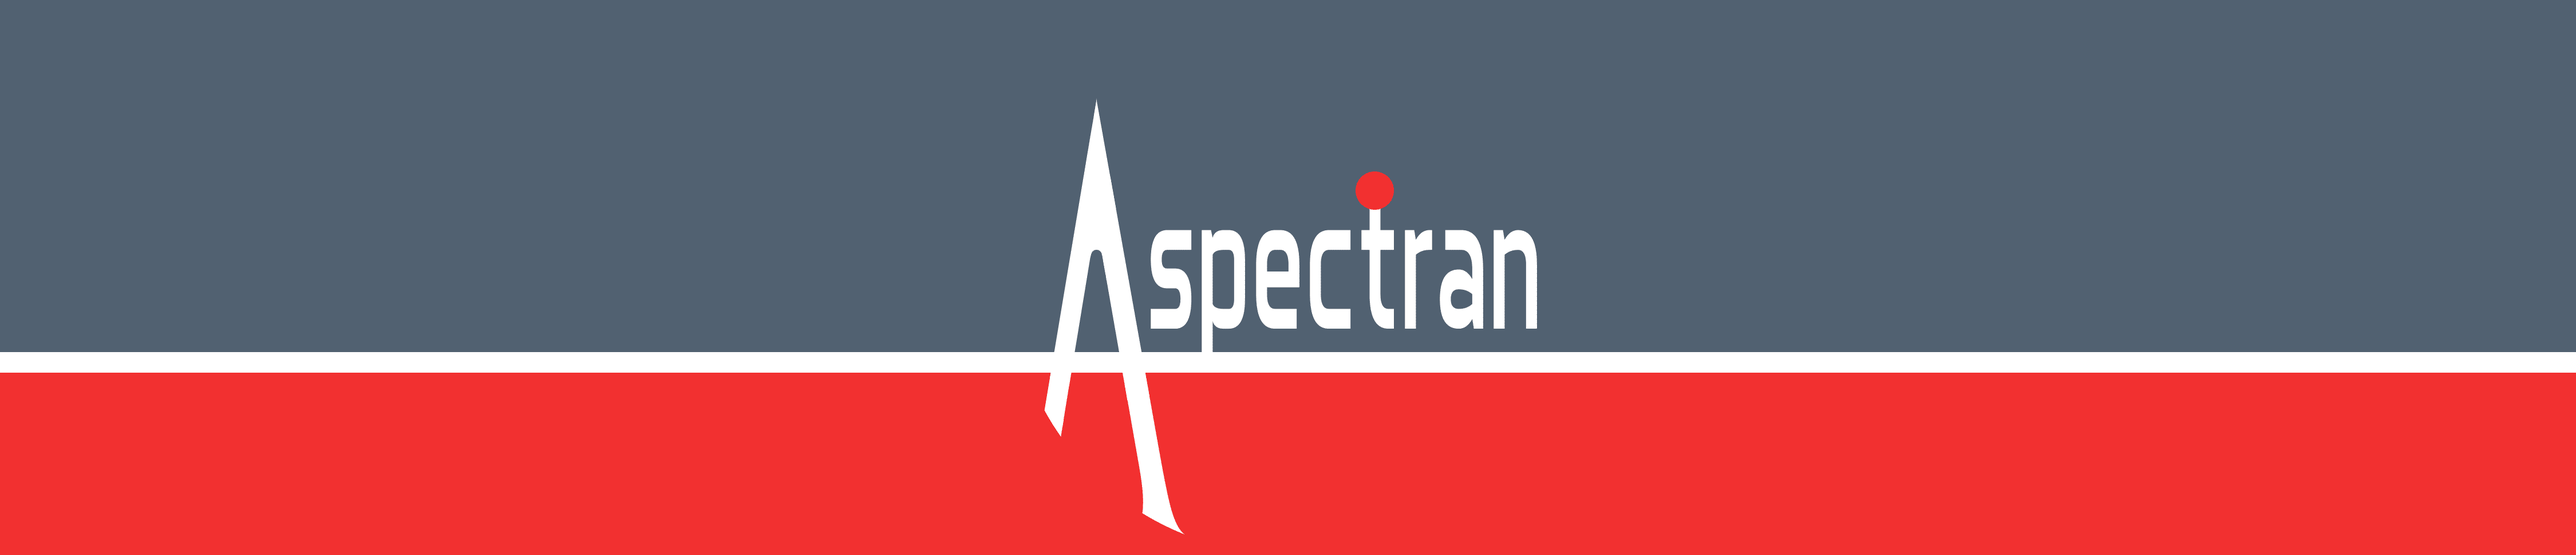
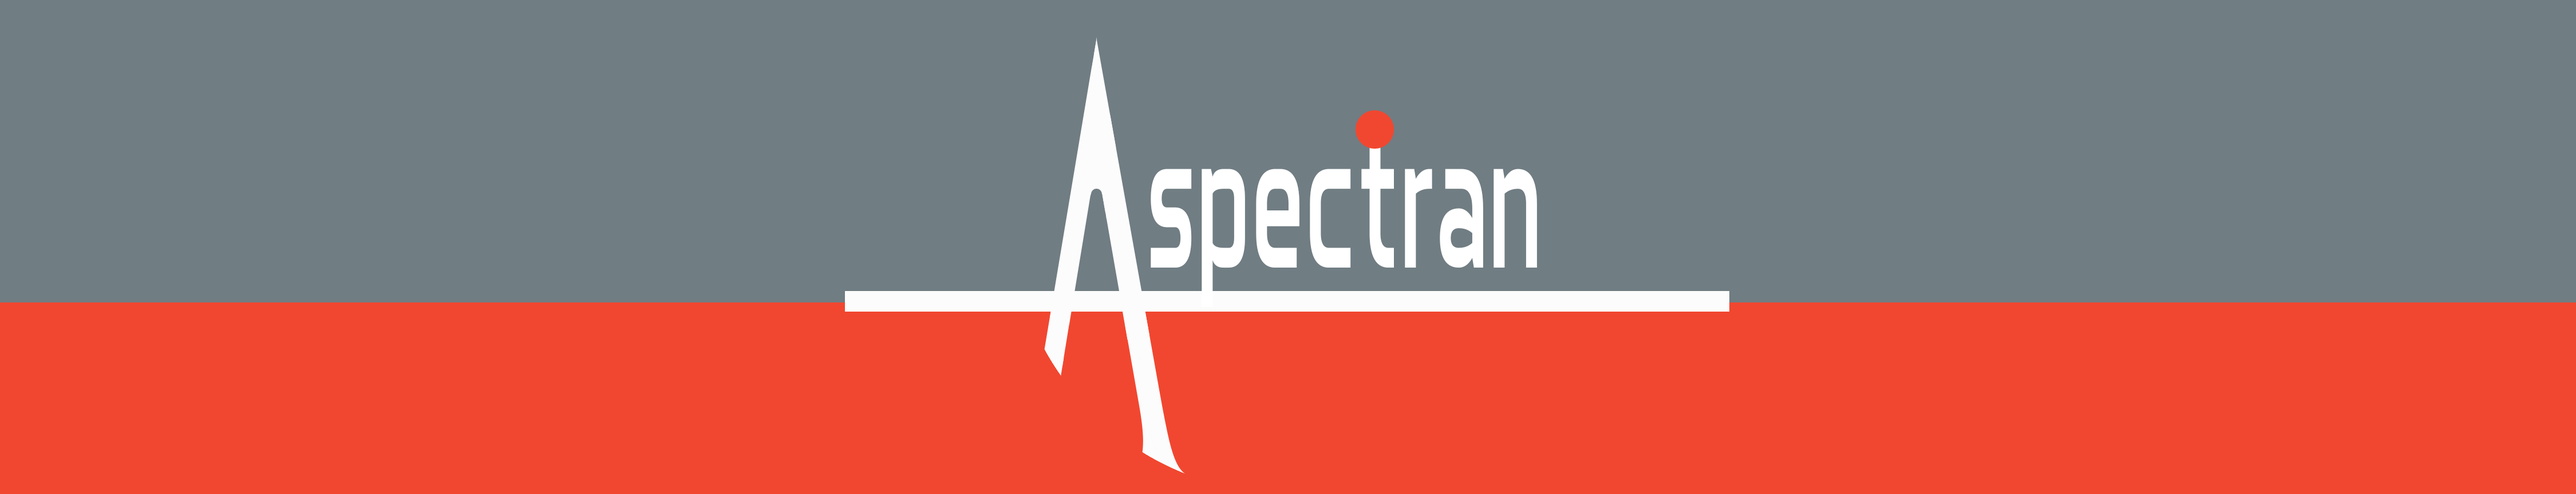
색상 조정

diff --git a/_sass/_01_settings_colors.scss b/_sass/_01_settings_colors.scss
@@ -17,7 +17,7 @@
 
 $text-color:       	#111;
 $body-font-color: 	$text-color;
-$body-bg: 			    #fff;
+$body-bg: 			    #FCFCFC;
 $anchor-color:      #5497D4;
 
 
@@ -25,13 +25,13 @@ $anchor-color:      #5497D4;
    https://color.adobe.com/de/Flat-Design-Colors-v2-color-theme-4341903/
 ------------------------------------------------------------------- */
 
-$ci-0: #43505F;		// dark turquoise
-$ci-1: #657A8F;		// dark turquoise
+$ci-0: #4B555A;		// dark turquoise
+$ci-1: #707D83;		// dark turquoise
 $ci-2: #8395A7;		// turquoise
 $ci-3: #EFC94C;		// yellow
 $ci-4: #E27A3F;		// orange
 $ci-5: #F02B2B;		// red
-$ci-6: #fff;      // green
+$ci-6: #FCFCFC;      // green
 
 
 

diff --git a/_sass/_07_layout.scss b/_sass/_07_layout.scss
@@ -66,9 +66,9 @@ body.video cite { color: #fff; }
 #masthead {
   background-color: $primary-color;
   margin-top: -1px;
-}
-#masthead img {
-  border-radius: 0;
+  img {
+    border-radius: 0;
+  }
 }
 #masthead-with-text {
   text-align: center;
@@ -83,11 +83,11 @@ body.video cite { color: #fff; }
   background-color: $primary-color;
   height: 175px;
   margin-top: -1px;
-}
-#masthead-no-image-header #slogan img {
-  margin-top: 20px;
-  position: relative;
-  height: 130px
+  #slogan img {
+    margin-top: 20px;
+    position: relative;
+    height: 130px
+  }
 }
 
 /* Masthead › small-only
